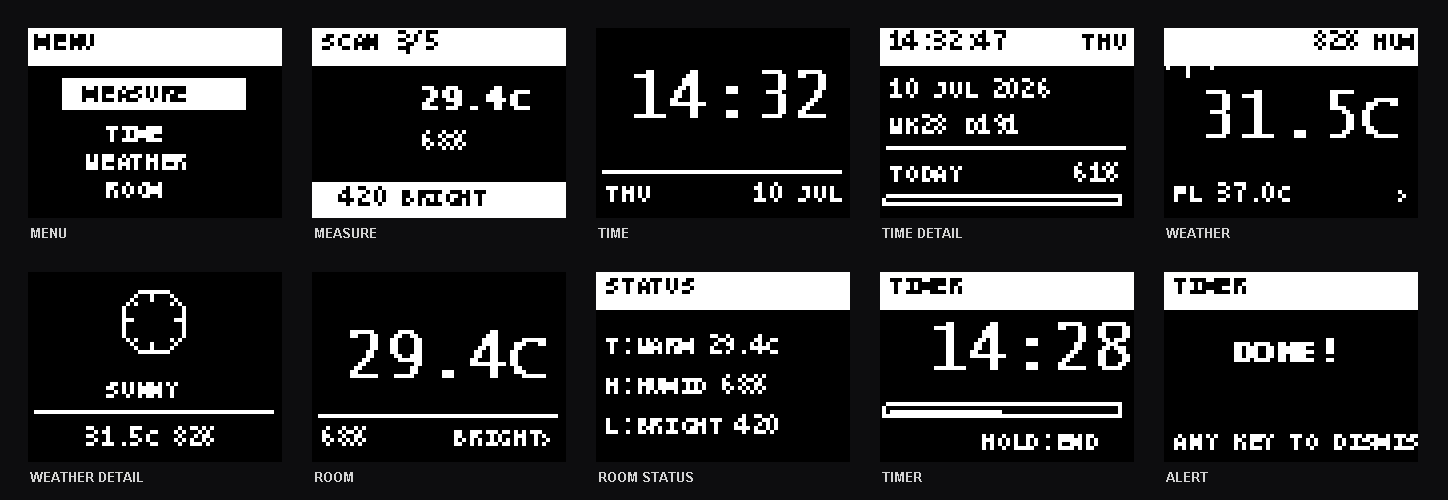
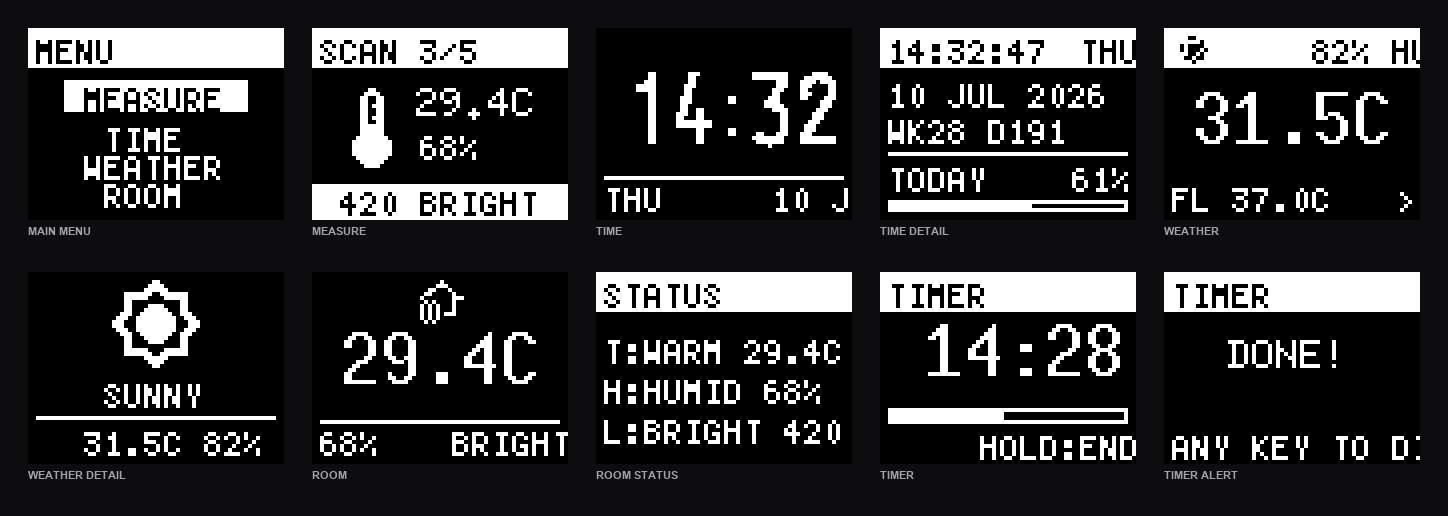
docs: render README OLED previews through native U8g2

diff --git a/docs/pics/readme/source/u8g2_render.c b/docs/pics/readme/source/u8g2_render.c
@@ -1,0 +1,154 @@
+#include <stdio.h>
+#include <stdlib.h>
+#include <string.h>
+#include "u8g2.h"
+#include "generated_icons.h"
+
+/*
+ * README documentation renderer
+ *
+ * This is a native host renderer built against the exact U8g2 C library
+ * shipped in firmware/.pio/libdeps. It renders into a real 64x48 U8g2
+ * framebuffer using the same fonts selected by display_manager.cpp:
+ *
+ *   FONT_SMALL  -> u8g2_font_5x7_tf
+ *   FONT_NORMAL -> u8g2_font_6x10_tf
+ *   FONT_LARGE  -> u8g2_font_10x20_tf
+ *   FONT_HUGE   -> u8g2_font_logisoso18_tn
+ *
+ * Output is PGM (one luminance value per exact framebuffer pixel), then the
+ * build script converts/scales it to PNG with nearest-neighbor filtering.
+ *
+ * Screen text, coordinates, and layout states mirror firmware/src/main.cpp.
+ */
+
+#define W 64
+#define H 48
+static u8g2_t u8g2;
+
+static uint8_t null_cb(u8x8_t *u8x8, uint8_t msg, uint8_t arg_int, void *arg_ptr) {
+  (void)u8x8; (void)msg; (void)arg_int; (void)arg_ptr;
+  return 1;
+}
+
+static void init(void) {
+  /*
+   * Use the exact SSD1306 64x48 full-buffer setup used by firmware's
+   * U8G2_SSD1306_64X48_ER_F_HW_I2C constructor. The callbacks are no-ops:
+   * this host renderer never sends the buffer to physical I2C hardware.
+   */
+  u8g2_Setup_ssd1306_64x48_er_f(&u8g2, U8G2_R0, null_cb, null_cb);
+  u8g2_SetFontPosTop(&u8g2);
+  u8g2_ClearBuffer(&u8g2);
+}
+
+static void small(void)  { u8g2_SetFont(&u8g2, u8g2_font_5x7_tf); }
+static void normal(void) { u8g2_SetFont(&u8g2, u8g2_font_6x10_tf); }
+static void large(void)  { u8g2_SetFont(&u8g2, u8g2_font_10x20_tf); }
+static void huge(void)   { u8g2_SetFont(&u8g2, u8g2_font_logisoso18_tn); }
+
+static void text(int x, int y, const char *s) { u8g2_DrawStr(&u8g2, x, y, s); }
+static void header(const char *s) {
+  u8g2_DrawBox(&u8g2, 0, 0, 64, 10);
+  small();
+  u8g2_SetDrawColor(&u8g2, 0);
+  text(2, 2, s);
+  u8g2_SetDrawColor(&u8g2, 1);
+}
+
+/* A tiny generic icon placeholder. Actual screen geometry and U8g2 text are
+ * exact; icons are intentionally simple until firmware XBM arrays are
+ * factored into a shared renderable asset source. */
+/* Exact copy of display_manager.cpp's drawIconScaled() nearest-neighbor
+ * sampling logic, operating on the generated firmware XBM arrays. */
+static void icon_scaled(int cx, int cy, const uint8_t *src, float scale) {
+  const int SRC = 24;
+  int dst = (int)(SRC * scale + 0.5f);
+  int ox, oy, dx, dy;
+  if (dst < 1) return;
+  ox = cx - dst / 2;
+  oy = cy - dst / 2;
+  for (dy = 0; dy < dst; dy++) {
+    int sy = (dy * SRC) / dst;
+    for (dx = 0; dx < dst; dx++) {
+      int sx = (dx * SRC) / dst;
+      int byte_idx = sy * 3 + sx / 8;
+      int bit_idx = sx % 8;
+      if (src[byte_idx] & (1 << bit_idx)) u8g2_DrawPixel(&u8g2, ox + dx, oy + dy);
+    }
+  }
+}
+
+static void menu(void) {
+  init(); header("MENU");
+  u8g2_DrawBox(&u8g2, 9, 13, 46, 8); small(); u8g2_SetDrawColor(&u8g2, 0);
+  text(14, 14, "MEASURE"); u8g2_SetDrawColor(&u8g2, 1);
+  text(19, 24, "TIME"); text(14, 31, "WEATHER"); text(19, 38, "ROOM");
+}
+static void measure(void) {
+  init(); header("SCAN 3/5"); icon_scaled(15, 25, xbm_measure_lg, 1.0f); normal(); text(26, 14, "29.4C"); small(); text(27, 26, "68%");
+  u8g2_DrawBox(&u8g2, 0, 39, 64, 9); u8g2_SetDrawColor(&u8g2, 0); text(7, 40, "420 BRIGHT"); u8g2_SetDrawColor(&u8g2, 1);
+}
+static void time_main(void) {
+  init(); huge(); text(7, 10, "14:32"); u8g2_DrawHLine(&u8g2, 2, 37, 60);
+  small(); text(2, 39, "THU"); text(44, 39, "10 JUL");
+}
+static void time_detail(void) {
+  init(); header("14:32:47"); small(); u8g2_SetDrawColor(&u8g2, 0); text(50, 2, "THU"); u8g2_SetDrawColor(&u8g2, 1);
+  text(2, 13, "10 JUL 2026"); text(2, 22, "WK28 D191"); u8g2_DrawHLine(&u8g2, 2, 31, 60);
+  text(2, 34, "TODAY"); text(48, 34, "61%"); u8g2_DrawFrame(&u8g2, 2, 43, 60, 3); u8g2_DrawBox(&u8g2, 3, 44, 35, 1);
+}
+static void weather(void) {
+  init(); u8g2_DrawBox(&u8g2, 0, 0, 64, 10); u8g2_SetDrawColor(&u8g2, 0); icon_scaled(7, 5, xbm_weather_sun_lg, 0.33f); small(); text(37, 2, "82% HUM"); u8g2_SetDrawColor(&u8g2, 1);
+  large(); text(7, 15, "31.5C"); small(); text(2, 39, "FL 37.0C"); text(58, 39, ">");
+}
+static void weather_detail(void) {
+  init(); icon_scaled(32, 13, xbm_weather_sun_lg, 1.0f); small(); text(19, 27, "SUNNY"); u8g2_DrawHLine(&u8g2, 2, 36, 60); text(14, 39, "31.5C 82%");
+}
+static void room(void) {
+  init(); icon_scaled(32, 7, xbm_room_lg, 0.5f); large(); text(7, 14, "29.4C"); u8g2_DrawHLine(&u8g2, 2, 37, 60); small(); text(2, 39, "68%"); text(35, 39, "BRIGHT>");
+}
+static void room_detail(void) {
+  init(); header("STATUS"); small(); text(2, 16, "T:WARM 29.4C"); text(2, 26, "H:HUMID 68%"); text(2, 36, "L:BRIGHT 420");
+}
+static void timer(void) {
+  init(); header("TIMER"); icon_scaled(56, 5, xbm_interval_lg, 0.33f); large(); text(11, 12, "14:28"); u8g2_DrawFrame(&u8g2, 2, 34, 60, 4); u8g2_DrawBox(&u8g2, 3, 35, 28, 2); small(); text(25, 40, "HOLD:END");
+}
+static void alert(void) {
+  init(); header("TIMER"); normal(); text(16, 16, "DONE!"); small(); text(2, 40, "ANY KEY TO DISMISS");
+}
+
+static void emit_pgm(const char *path) {
+  FILE *f = fopen(path, "wb");
+  int x, y;
+  if (!f) { perror(path); exit(1); }
+  fprintf(f, "P5\n%d %d\n255\n", W, H);
+  for (y = 0; y < H; y++) {
+    for (x = 0; x < W; x++) {
+      uint8_t b = u8g2_GetBufferPtr(&u8g2)[x + (y / 8) * W];
+      fputc((b & (1 << (y & 7))) ? 255 : 0, f);
+    }
+  }
+  fclose(f);
+}
+
+typedef void (*screen_fn)(void);
+struct screen { const char *name; screen_fn draw; };
+static struct screen screens[] = {
+  {"menu", menu}, {"measure", measure}, {"time", time_main},
+  {"time-detail", time_detail}, {"weather", weather},
+  {"weather-detail", weather_detail}, {"room", room},
+  {"room-detail", room_detail}, {"timer", timer}, {"alert", alert}
+};
+
+int main(int argc, char **argv) {
+  int i;
+  const char *outdir = argc > 1 ? argv[1] : ".";
+  char path[1024];
+  for (i = 0; i < (int)(sizeof(screens)/sizeof(screens[0])); i++) {
+    screens[i].draw();
+    snprintf(path, sizeof(path), "%s/%s.pgm", outdir, screens[i].name);
+    emit_pgm(path);
+  }
+  return 0;
+}

diff --git a/docs/pics/readme/source/extract_xbm.py b/docs/pics/readme/source/extract_xbm.py
@@ -1,0 +1,44 @@
+"""Extract selected 24×24 XBM arrays from firmware display_manager.cpp.
+
+The README host renderer includes the generated header so its icon pixels
+come from the exact same firmware arrays rather than hand-drawn substitutes.
+"""
+
+from pathlib import Path
+import re
+
+REPO = Path(__file__).resolve().parents[4]
+SOURCE = REPO / "firmware" / "src" / "display_manager.cpp"
+OUTPUT = Path(__file__).resolve().parent / "generated_icons.h"
+
+NAMES = [
+    "xbm_measure_lg",
+    "xbm_weather_sun_lg",
+    "xbm_weather_lg",
+    "xbm_room_lg",
+    "xbm_interval_lg",
+]
+
+text = SOURCE.read_text(encoding="utf-8")
+blocks = []
+for name in NAMES:
+    match = re.search(
+        rf"static const uint8_t\s+{re.escape(name)}\[\]\s+PROGMEM\s*=\s*\{{(.*?)\}};",
+        text,
+        flags=re.S,
+    )
+    if not match:
+        raise SystemExit(f"Could not find {name}")
+    values = re.findall(r"0x[0-9a-fA-F]+", match.group(1))
+    if len(values) != 72:
+        raise SystemExit(f"{name}: expected 72 bytes, found {len(values)}")
+    formatted = ", ".join(values)
+    blocks.append(f"static const uint8_t {name}[] = {{ {formatted} }};")
+
+OUTPUT.write_text(
+    "/* Generated from firmware/src/display_manager.cpp; do not hand-edit. */\n"
+    "#pragma once\n#include <stdint.h>\n\n"
+    + "\n".join(blocks)
+    + "\n",
+    encoding="utf-8",
+)

diff --git a/docs/pics/readme/source/assemble_oled_gallery.py b/docs/pics/readme/source/assemble_oled_gallery.py
@@ -1,0 +1,47 @@
+from pathlib import Path
+from PIL import Image, ImageDraw, ImageFont
+
+ROOT = Path(__file__).resolve().parent.parent
+FRAMES = ROOT / "generated"
+OUTPUT = ROOT / "oled-ui-gallery.png"
+
+ORDER = [
+    ("menu", "MAIN MENU"),
+    ("measure", "MEASURE"),
+    ("time", "TIME"),
+    ("time-detail", "TIME DETAIL"),
+    ("weather", "WEATHER"),
+    ("weather-detail", "WEATHER DETAIL"),
+    ("room", "ROOM"),
+    ("room-detail", "ROOM STATUS"),
+    ("timer", "TIMER"),
+    ("alert", "TIMER ALERT"),
+]
+
+SCALE = 4
+PAD = 28
+LABEL_H = 24
+COLS = 5
+ROWS = 2
+CELL_W = 64 * SCALE
+CELL_H = 48 * SCALE
+
+canvas = Image.new(
+    "RGB",
+    (COLS * (CELL_W + PAD) + PAD, ROWS * (CELL_H + LABEL_H + PAD) + PAD),
+    "#0d0d0f",
+)
+draw = ImageDraw.Draw(canvas)
+font = ImageFont.truetype(r"C:\Windows\Fonts\arialbd.ttf", 11)
+
+for index, (filename, label) in enumerate(ORDER):
+    frame = Image.open(FRAMES / f"{filename}.pgm").convert("RGB")
+    # No resampling: one source framebuffer pixel maps to a crisp 4×4 block.
+    frame = frame.resize((CELL_W, CELL_H), Image.Resampling.NEAREST)
+    row, col = divmod(index, COLS)
+    x = PAD + col * (CELL_W + PAD)
+    y = PAD + row * (CELL_H + LABEL_H + PAD)
+    canvas.paste(frame, (x, y))
+    draw.text((x, y + CELL_H + 5), label, fill="#a1a1aa", font=font)
+
+canvas.save(OUTPUT)

diff --git a/docs/pics/readme/source/README.md b/docs/pics/readme/source/README.md
@@ -1,0 +1,28 @@
+# OLED README Preview Renderer
+
+This documentation-only host renderer produces the 64×48 OLED gallery used by
+the root README.
+
+It compiles against the same U8g2 C source and font arrays installed by
+PlatformIO for the firmware project. It also extracts the selected weather,
+room, measure, and timer XBM arrays directly from
+`firmware/src/display_manager.cpp`.
+
+## Prerequisites
+
+- MSYS2 UCRT64 GCC (`C:\msys64\ucrt64\bin\gcc.exe`)
+- Python with Pillow
+
+## Regenerate
+
+From the repository root:
+
+```powershell
+python docs/pics/readme/source/extract_xbm.py
+& 'C:\msys64\usr\bin\bash.exe' -lc 'export PATH=/ucrt64/bin:$PATH; cd /c/Users/wangbo/Desktop/Work/"Personal Repo"/Aether-OS; mkdir -p docs/pics/readme/generated; gcc -O2 -I firmware/.pio/libdeps/esp32dev/U8g2/src/clib -I docs/pics/readme/source docs/pics/readme/source/u8g2_render.c firmware/.pio/libdeps/esp32dev/U8g2/src/clib/*.c -o docs/pics/readme/source/build/u8g2_render.exe; docs/pics/readme/source/build/u8g2_render.exe docs/pics/readme/generated'
+python docs/pics/readme/source/assemble_oled_gallery.py
+```
+
+`generated/`, the compiled executable, and `generated_icons.h` are ignored:
+they are reproducible intermediates. Commit only
+`docs/pics/readme/oled-ui-gallery.png` after reviewing it.

diff --git a/README.md b/README.md
@@ -10,11 +10,10 @@ measures temperature, humidity, and light; presents them through a purpose-built
 the result to a Supabase-backed Next.js dashboard and Telegram bot.
 
 > [!NOTE]
-> The dashboard and OLED images below are current interface previews generated
-> from the repository's present layouts. OLED previews begin as 64×48 raster
-> frames and use nearest-neighbor scaling for the same crisp pixel treatment as
-> the device display. They intentionally replace older physical-device photos
-> that no longer match the firmware.
+> The dashboard image is a current interface preview. OLED previews are rendered
+> through U8g2's actual 64×48 framebuffer, fonts, and firmware XBM icon arrays,
+> then scaled with nearest-neighbor pixels. They intentionally replace older
+> physical-device photos that no longer match the firmware.
 
 ## At a glance
 
